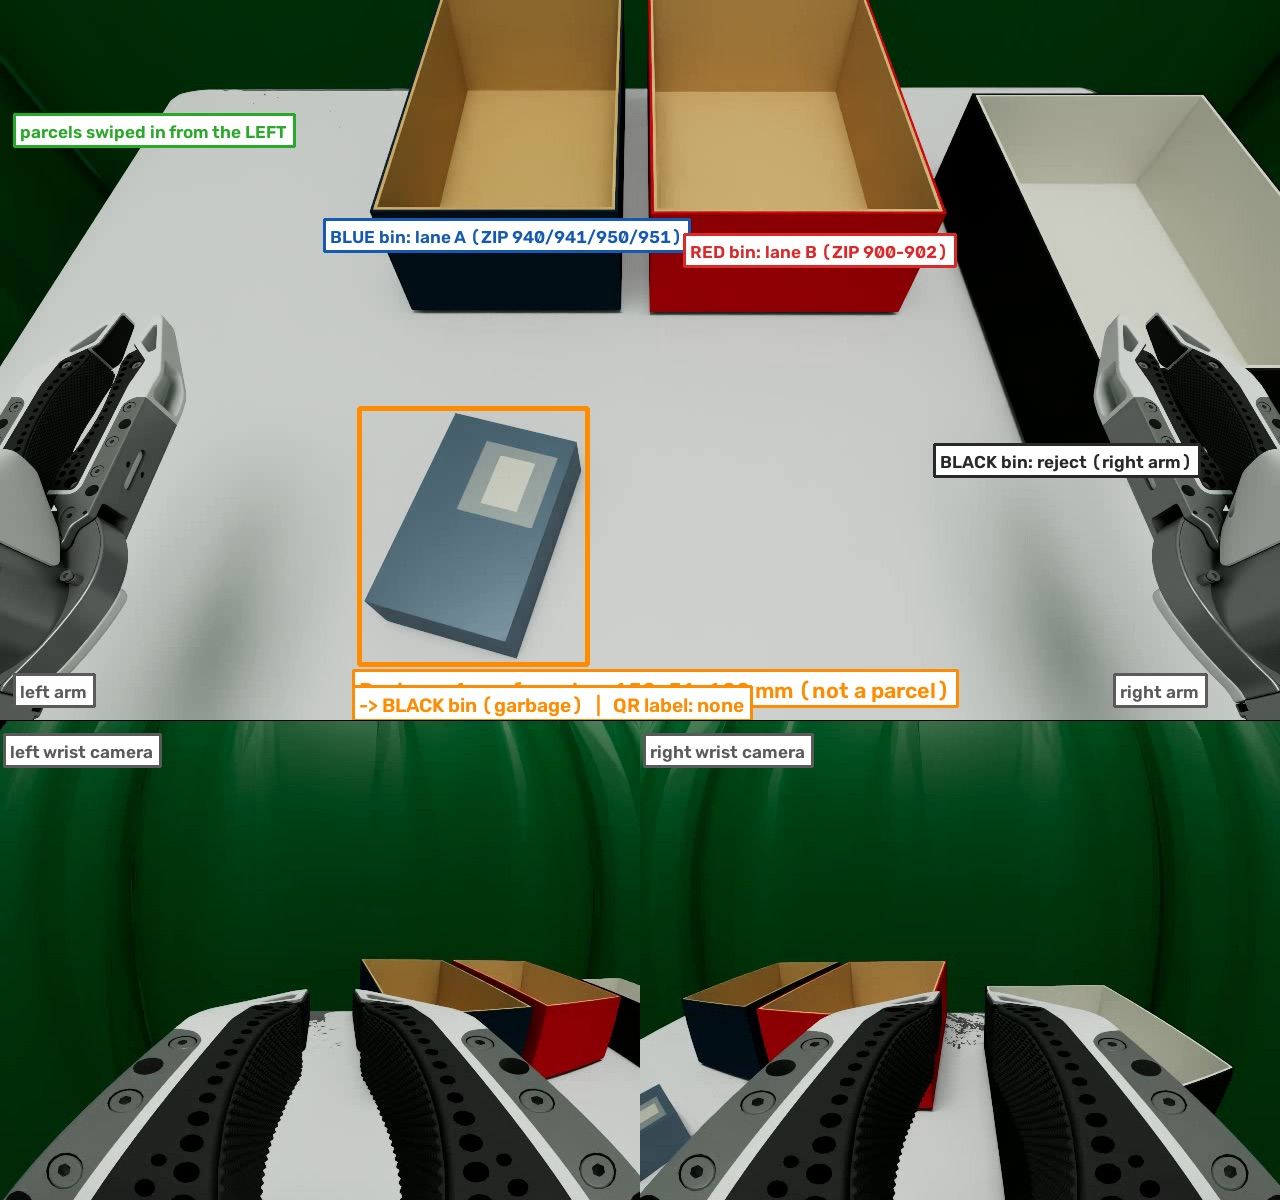
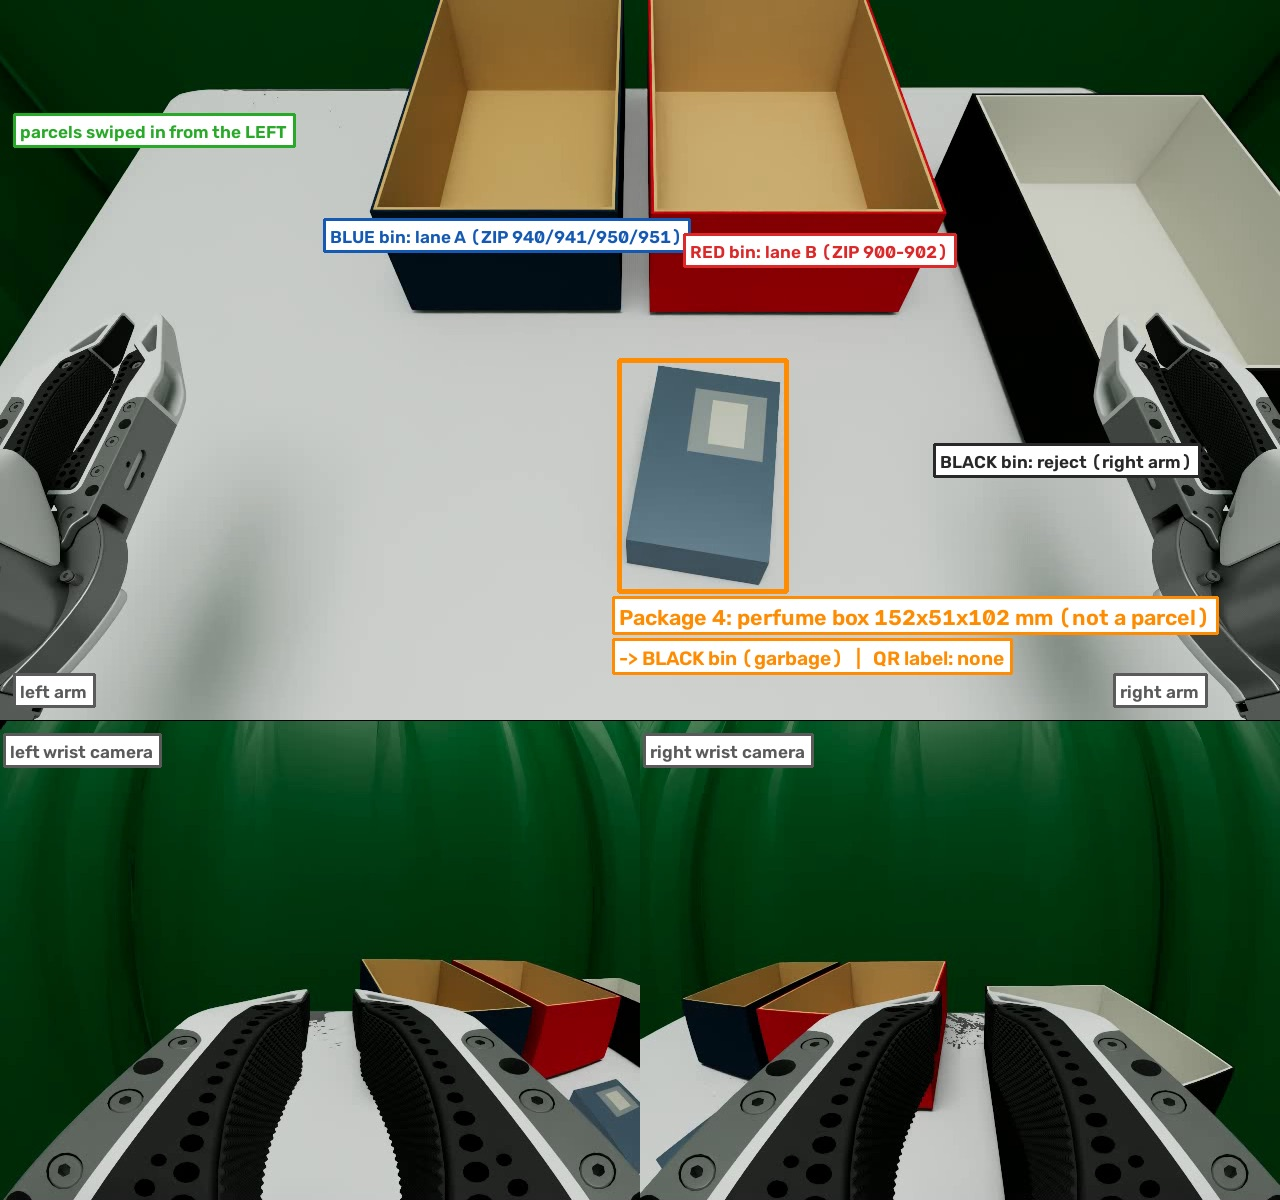
Sim previews: drop zone clear of the left gripper, all 11 single-parcel cases

Changed region(s): [[0.25, 0.2775, 0.9688, 0.6167], [0.4375, 0.8942, 0.5625, 0.9867], [0.0625, 0.4625, 0.0938, 0.4933]]

diff --git a/docs/sim_preview/README.md b/docs/sim_preview/README.md
@@ -14,6 +14,9 @@ t = 11 s, just after a parcel has been swiped in from the left. One QR label is 
 | [25](case25.jpg) | Tall box 127 x 76 x 203 mm, QR 420/90015 | red bin |
 | [26](case26.jpg) | White retail box 127 x 64 x 89 mm, QR 420/60601 | black bin (unknown ZIP) |
 | [27](case27.jpg) | Large box 254 x 305 x 152 mm, QR 420/95014 | blue bin, too wide for one gripper |
+| [28](case28.jpg) | Wallet 114 x 89 x 19 mm, no label | black bin |
+| [29](case29.jpg) | Plain box 152 x 76 x 102 mm, no label | black bin |
 
-Known issues in these frames, both fixed since: in 19 and 25 the parcel slides into the left gripper (the drop zone is now
-clear of it), and the parcels still show the old plain QR label (the realistic shipping label from `docs/labels/` is next).
+Parcels land centre-left, clear of the left gripper. These frames still show the plain QR label: the realistic shipping
+label from `docs/labels/` is in the sim since the next rebuild. Big parcels (19, 27) are lifted with both arms; normal parcels
+are found by the left arm + head camera and handed to the right arm, which puts them in the bin.
